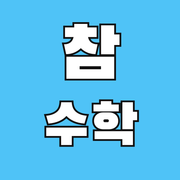
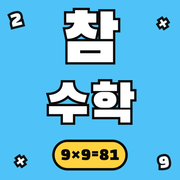
아이콘 테두리 강조 + 구구단 장식 추가, 형제자매 온보딩 안내 보완
- 앱 아이콘 글씨 테두리를 더 굵게(20px→26px) 하고, 구석에 작은 숫자·×
  장식과 "9×9=81" 뱃지를 더해 한눈에 구구단 앱임을 알 수 있게 했다.
- 온보딩 ②홈 화면 추가 단계에 "형제자매가 이미 앱을 추가했다면 다시
  추가하지 않아도 된다"는 안내를 덧붙였다. 로그인/테스트는 학생마다
  계정이 달라 각자 완료해야 하며, 관리자 화면에도 자녀별로 따로
  표시되는 지금 구조를 유지한다.

Claude-Session: https://claude.ai/code/session_0184bfGW23PdgZEQgzoqQm34

diff --git a/app/onboarding/[studentId]/page.tsx b/app/onboarding/[studentId]/page.tsx
@@ -127,24 +127,30 @@ export default function OnboardingPage() {
               )}
 
               {s.step === 2 && (
-                <div className="tag-row" style={{ flexDirection: "column", alignItems: "stretch", gap: 12 }}>
-                  <div>
-                    <strong>📱 안드로이드(갤럭시 등, 크롬 브라우저)</strong>
-                    <ol style={{ margin: "6px 0 0", paddingLeft: 20, color: "var(--muted)", fontSize: "0.9rem" }}>
-                      <li>①단계에서 로그인한 화면에서</li>
-                      <li>화면 오른쪽 위 점 3개(⋮) 메뉴 누르기</li>
-                      <li>&quot;홈 화면에 추가&quot; 선택 → 추가</li>
-                    </ol>
+                <>
+                  <div className="tag-row" style={{ flexDirection: "column", alignItems: "stretch", gap: 12 }}>
+                    <div>
+                      <strong>📱 안드로이드(갤럭시 등, 크롬 브라우저)</strong>
+                      <ol style={{ margin: "6px 0 0", paddingLeft: 20, color: "var(--muted)", fontSize: "0.9rem" }}>
+                        <li>①단계에서 로그인한 화면에서</li>
+                        <li>화면 오른쪽 위 점 3개(⋮) 메뉴 누르기</li>
+                        <li>&quot;홈 화면에 추가&quot; 선택 → 추가</li>
+                      </ol>
+                    </div>
+                    <div>
+                      <strong>🍎 아이폰(사파리 브라우저)</strong>
+                      <ol style={{ margin: "6px 0 0", paddingLeft: 20, color: "var(--muted)", fontSize: "0.9rem" }}>
+                        <li>①단계에서 로그인한 화면에서</li>
+                        <li>하단 공유 버튼(□ 위에 화살표) 누르기</li>
+                        <li>&quot;홈 화면에 추가&quot; 선택 → 추가</li>
+                      </ol>
+                    </div>
                   </div>
-                  <div>
-                    <strong>🍎 아이폰(사파리 브라우저)</strong>
-                    <ol style={{ margin: "6px 0 0", paddingLeft: 20, color: "var(--muted)", fontSize: "0.9rem" }}>
-                      <li>①단계에서 로그인한 화면에서</li>
-                      <li>하단 공유 버튼(□ 위에 화살표) 누르기</li>
-                      <li>&quot;홈 화면에 추가&quot; 선택 → 추가</li>
-                    </ol>
-                  </div>
-                </div>
+                  <p className="muted" style={{ fontSize: "0.8rem", marginTop: 10, marginBottom: 0 }}>
+                    형제자매가 같은 학원에 다니고 있어 이미 앱을 홈 화면에 추가하셨다면, 다시
+                    추가하지 않으셔도 괜찮아요. 이 화면 아래 버튼만 눌러주세요.
+                  </p>
+                </>
               )}
 
               {s.step === 3 && (

diff --git a/README.md b/README.md
@@ -221,10 +221,15 @@
     인앱 브라우저를 감지해 안드로이드는 크롬으로 자동 이동을 시도하고, 그래도 안 되거나 아이폰인
     경우 사이트 전체에(로그인 화면 포함) "주소 복사하기" 배너를 띄웁니다 (`components/InAppBrowserBanner.tsx`).
   - 홈 화면에 추가했을 때 보이는 아이콘은 하늘색 배경에 굵고 둥근 글씨체(Black Han Sans)로 "참
-    수학"을 검정 테두리로 새긴 전용 아이콘입니다(`app/icon.png`, `app/apple-icon.png`,
-    `public/icon-192.png`, `public/icon-512.png`, `app/manifest.ts`). 이게 생기기 전에는 브라우저가
-    화면 색을 대충 캡처해 회색빛 아이콘을 만들었던 것이라, 아이콘을 바꾼 뒤에는 기존에 이미 추가해둔
-    바로가기를 한 번 지우고 새로 추가해야 새 아이콘으로 바뀝니다.
+    수학"을 검정 테두리로 새기고, 구석에 작은 숫자·× 장식과 "9×9=81" 뱃지를 곁들여 한눈에 구구단
+    앱임을 알 수 있게 만들었습니다(`app/icon.png`, `app/apple-icon.png`, `public/icon-192.png`,
+    `public/icon-512.png`, `app/manifest.ts`). 이게 생기기 전에는 브라우저가 화면 색을 대충 캡처해
+    회색빛 아이콘을 만들었던 것이라, 아이콘을 바꾼 뒤에는 기존에 이미 추가해둔 바로가기를 한 번
+    지우고 새로 추가해야 새 아이콘으로 바뀝니다.
+  - 형제자매가 같은 학원에 다니는 경우: 홈 화면 바로가기는 사이트 주소 자체가 같아서 한쪽이 이미
+    추가해뒀다면 다시 추가할 필요가 없습니다(②단계 안내에 이 내용을 명시). 다만 로그인(①)과 오늘의
+    테스트(③)는 학생마다 계정이 달라 각자 따로 완료해야 하며, 관리자 화면에도 자녀별로 각각의
+    진행 상황이 표시됩니다.
 - `/board` — 교실에 띄워두는 **레벨업 게시판** (관리자 로그인 필요, 10초마다 자동 새로고침)
   - 영어 레벨 게시판처럼 단계별로 학생 이름을 보여주고, 최근 레벨업 소식 & 보상 지급 여부를 표시합니다.
   - 전체 학생 명단/레벨이 보이는 화면이라 URL만 안다고 아무나 볼 수 없도록 관리자 로그인이
